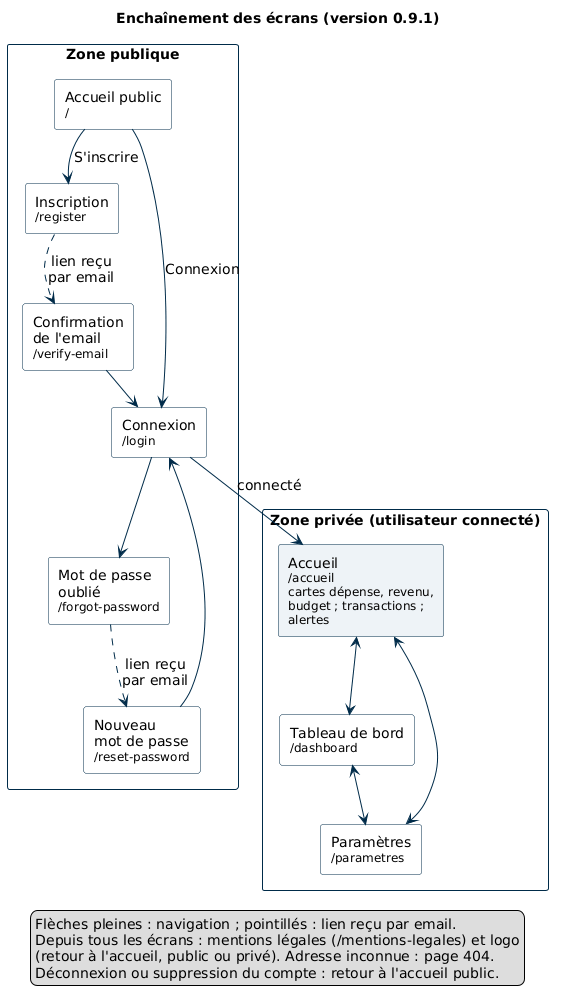
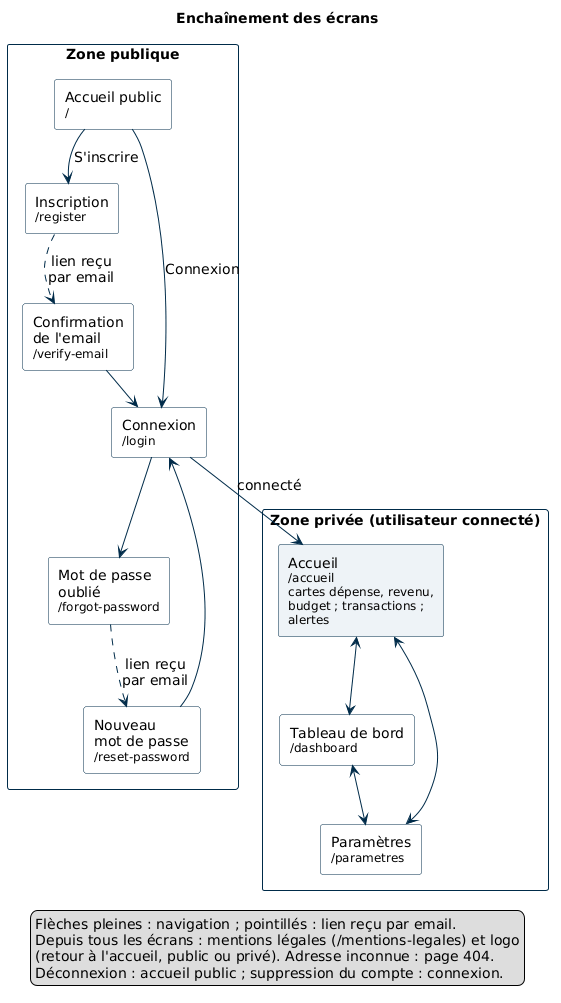
docs(diagrams): screen flow title without version, legend matches the code
The title no longer carries "version 0.9.1": the flow has not changed
since and the diagram describes the delivered application.
Legend fixed against the client code: logout leads to the public home
page, account deletion to the login page. PNG and SVG regenerated
(same dimensions, still readable on A4).

Changed region(s): [[0.2424, 0.9581, 0.8788, 0.989], [0.2121, 0.0, 0.7879, 0.0309]]

diff --git a/CHANGELOG.md b/CHANGELOG.md
@@ -57,6 +57,7 @@ Copie ce bloc en haut de la section `## [Non publié]` et remplis-le :
 
 ### Modifié
 - **Commentaires du service des transactions** (`apps/api/src/services/transaction.service.ts`) : l'en-tête, hérité du projet d'équipe, décrivait un comportement inexistant (vérification de fonds, mise à jour d'un solde) ; il décrit maintenant le rôle réel du service. Commentaires trop longs coupés, pour un code lisible à l'impression (annexes du dossier). Aucun changement de code. `docs/tests.md` : compteurs du tableau de synthèse à jour (78 tests d'intégration, 41 tests client) (branche `chore/fil-rouge-comments`)
+- **Schéma d'enchaînement des écrans** (`docs/diagrammes/enchainement-ecrans`) : titre sans numéro de version (le parcours n'a pas changé depuis la 0.9.1) ; légende corrigée d'après le code : la déconnexion mène à l'accueil public, la suppression du compte à la page de connexion. PNG et SVG régénérés, mêmes dimensions (lisible sur A4) (branche `chore/screen-flow-title`)
 
 ---
 

diff --git a/docs/diagrammes/README.md b/docs/diagrammes/README.md
@@ -10,7 +10,7 @@ Schémas UML écrits en texte ([PlantUML](https://plantuml.com/)), versionnés a
 | Séquence du fil rouge (1/2) | [sequence-ajout-depense.puml](sequence-ajout-depense.puml) | ajouter une dépense : parcours de la requête et contrôles (session, validation, catégorie) |
 | Séquence du fil rouge (2/2) | [sequence-ecriture-alerte.puml](sequence-ecriture-alerte.puml) | écriture de la dépense et recalcul de l'alerte dans une transaction, sous verrou |
 | Déploiement | [deploiement.puml](deploiement.puml) | serveur, conteneurs Docker, flux et ports, services externes |
-| Enchaînement des écrans | [enchainement-ecrans.puml](enchainement-ecrans.puml) | zone publique, zone privée, chemins réels des écrans (0.9.1) |
+| Enchaînement des écrans | [enchainement-ecrans.puml](enchainement-ecrans.puml) | zone publique, zone privée, chemins réels des écrans |
 
 ## Regénérer les images
 
